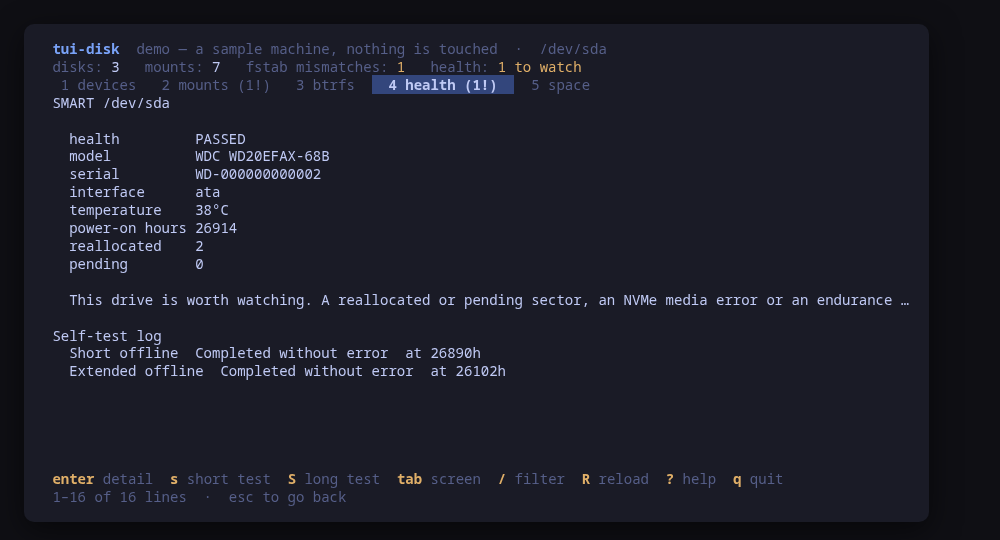
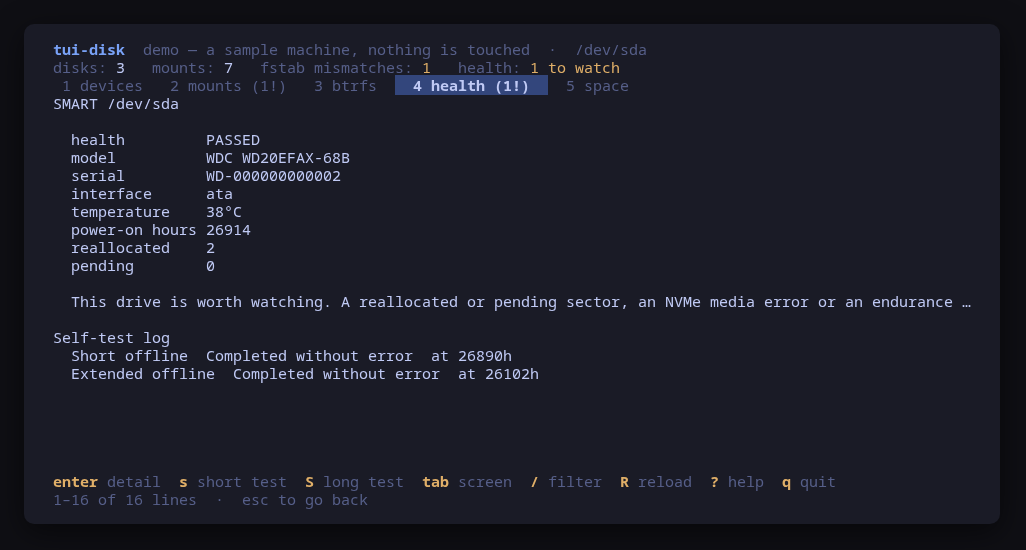
0.1.4: tui-kit v0.4.4
tui-disk 0.1.4 moves to tui-kit v0.4.4: every mount, btrfs and smartctl command now runs in its own session without a controlling terminal, so a step that would prompt fails at once instead of hanging behind the UI, and a failed step reports its meaningful line, cleaned of escape codes. Command previews are POSIX shell-quoted, the README screenshots are re-rendered with continuous box borders, and the README banner now carries the kit's stability markers.

Claude-Session: https://claude.ai/code/session_01MbCfX3T8khyd9hsrN5kMo3

diff --git a/README.md b/README.md
@@ -3,9 +3,11 @@
 [![OpenSSF Scorecard](https://api.securityscorecards.dev/projects/github.com/tui-tools/tui-disk/badge)](https://scorecard.dev/viewer/?uri=github.com/tui-tools/tui-disk)
 [![OpenSSF Best Practices](https://www.bestpractices.dev/projects/14368/badge)](https://www.bestpractices.dev/projects/14368)
 
+<!-- stability:start -->
 > **Beta.** The family is days old and still changing. Package names, flags
 > and keys may move without notice until 1.0. Pin versions, and report what
 > breaks.
+<!-- stability:end -->
 
 A terminal UI for the machine's storage. The disks you actually have, the mount
 table crossed against `/etc/fstab`, the btrfs filesystems in full and the SMART
@@ -128,7 +130,7 @@ Upgrades then arrive with the rest of your system updates.
 ### Any distribution, static binary
 
 ```sh
-curl -fsSL https://github.com/tui-tools/tui-disk/releases/download/v0.1.3/tui-disk_0.1.3_linux_amd64.tar.gz | tar -xz tui-disk
+curl -fsSL https://github.com/tui-tools/tui-disk/releases/download/v0.1.4/tui-disk_0.1.4_linux_amd64.tar.gz | tar -xz tui-disk
 sudo install -m0755 tui-disk /usr/local/bin/tui-disk
 ```
 
